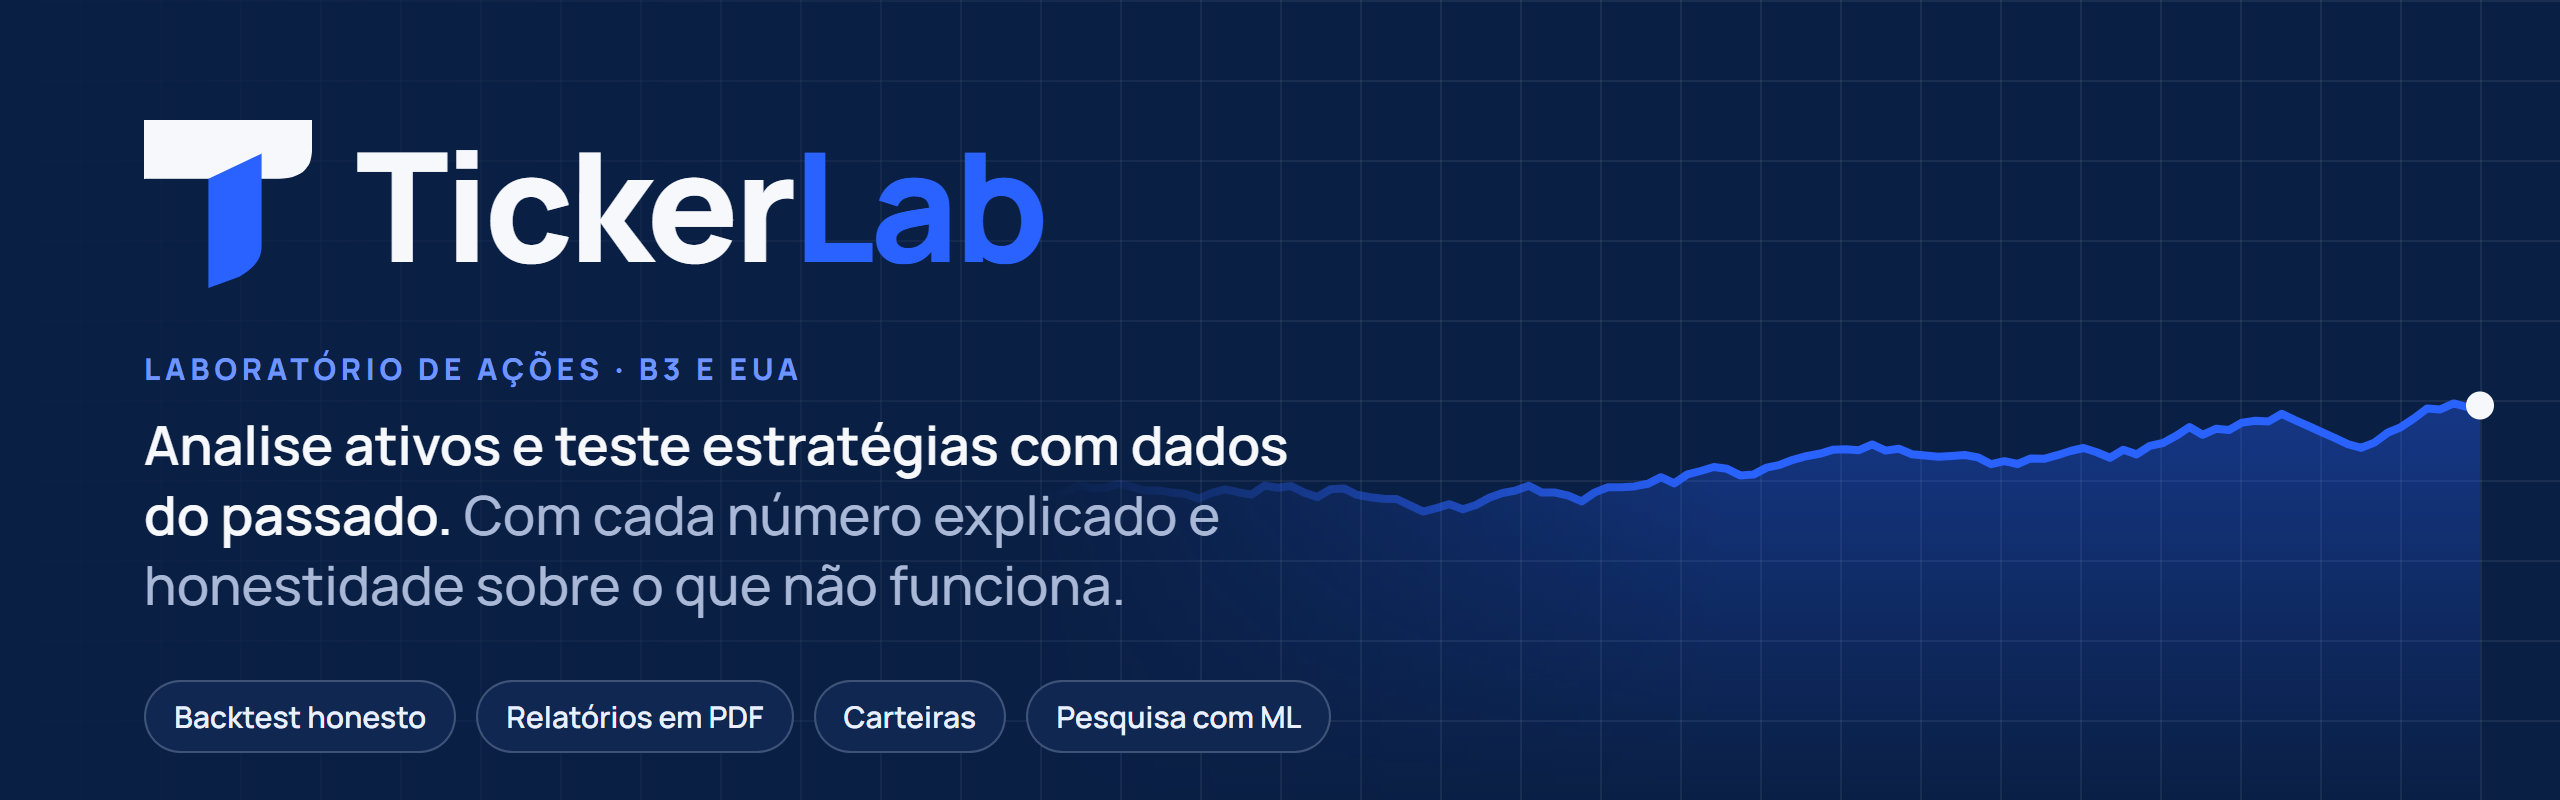
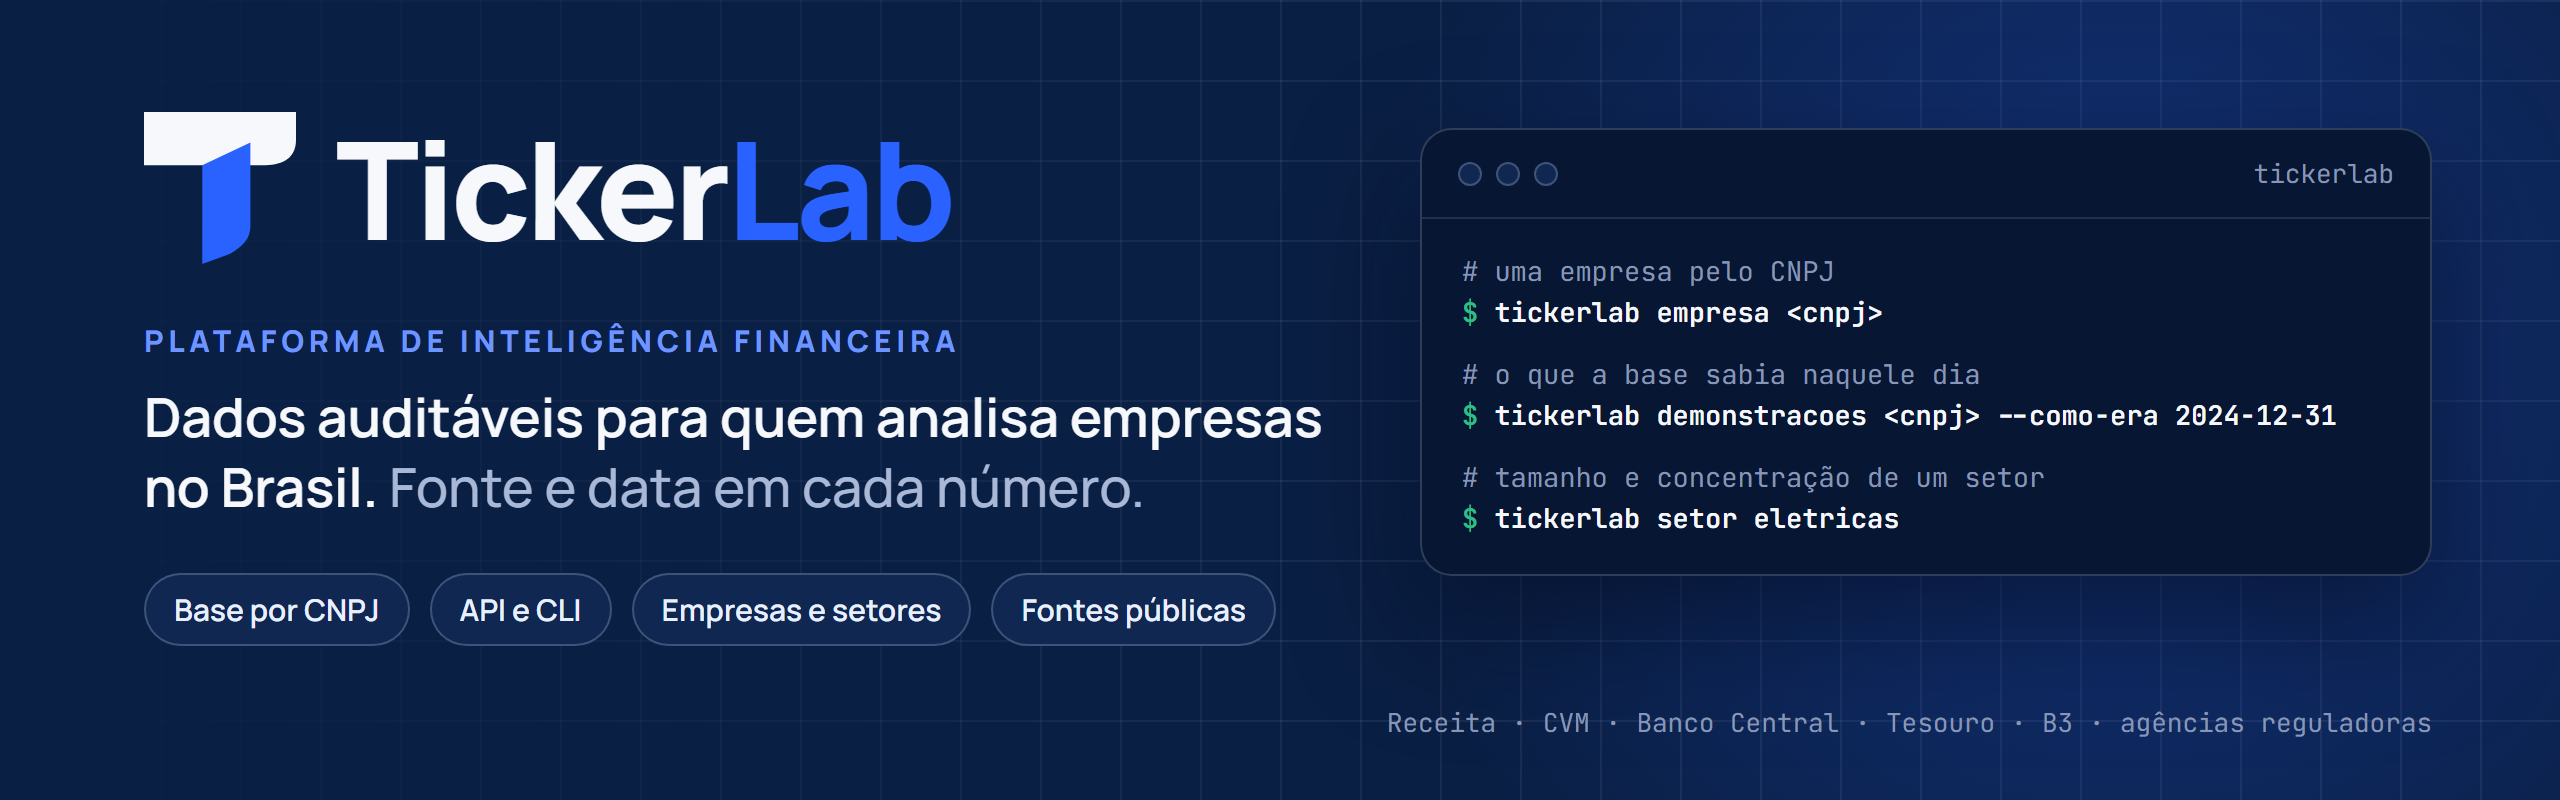
docs: imagens do GitHub com a cara do TickerLab de hoje (cabeçalho do README e prévia social)

diff --git a/docs/banner.html b/docs/banner.html
@@ -1,52 +1,76 @@
 <!doctype html>
-<!-- Banner do README (docs/imagens/banner.png). Para gerar de novo, no Windows:
-  msedge --headless=new --allow-file-access-from-files --hide-scrollbars --force-device-scale-factor=2
-         --window-size=1280,400 --screenshot=docs/imagens/banner.png docs/banner.html
-  O gráfico é decorativo (caminho aleatório com semente fixa), não são dados de mercado. -->
+<!-- As imagens do GitHub saem deste arquivo: o cabeçalho do README (docs/imagens/banner.png, 1280x400) e
+  a prévia social do repositório (docs/imagens/previa-social.png, 1280x640; abra com ?formato=previa).
+  Para gerar de novo: python -m scripts.gerar_imagens_do_github
+  Cores e fontes são as de src/marca.py. O terminal só lista comandos que a CLI tem (há teste), sem
+  saída e sem número: nada aqui fica velho quando a base cresce. -->
 <html lang="pt-BR"><head><meta charset="utf-8">
 <style>
 @font-face { font-family: M; src: url("../static/fontes/Manrope-VariableFont_wght.ttf"); font-weight: 200 800; }
-@font-face { font-family: J; src: url("../static/fontes/JetBrainsMono-SemiBold.ttf"); }
+@font-face { font-family: J; src: url("../static/fontes/JetBrainsMono-VariableFont_wght.ttf"); font-weight: 100 800; }
 html, body { margin: 0; width: 1280px; height: 400px; overflow: hidden; background: #0a1f44; }
 .c { position: relative; width: 1280px; height: 400px; font-family: M, sans-serif; color: #f6f8fb; background: #0a1f44; }
 .grade { position: absolute; inset: 0; background-image: linear-gradient(rgba(232,240,255,.07) 1px, transparent 1px), linear-gradient(90deg, rgba(232,240,255,.07) 1px, transparent 1px); background-size: 40px 40px; mask-image: linear-gradient(90deg, transparent 0%, #000 55%); }
-svg.graf { position: absolute; right: 0; top: 0; }
-.txt { position: absolute; left: 72px; top: 60px; }
-.marca { display: flex; align-items: center; gap: 22px; }
-.nome { font-weight: 800; font-size: 76px; letter-spacing: -0.03em; line-height: 1; }
+.brilho { position: absolute; right: -160px; top: -200px; width: 760px; height: 760px; border-radius: 50%; background: radial-gradient(closest-side, rgba(41,98,255,.30), rgba(41,98,255,0)); }
+.txt { position: absolute; left: 72px; top: 56px; width: 620px; }
+.marca { display: flex; align-items: center; gap: 20px; }
+.nome { font-weight: 800; font-size: 68px; letter-spacing: -0.03em; line-height: 1; }
 .nome b { color: #2962ff; font-weight: 800; }
-.olho { margin-top: 30px; color: #6e95ff; font-weight: 800; font-size: 15px; letter-spacing: .16em; text-transform: uppercase; }
-.frase { margin-top: 10px; font-size: 27px; font-weight: 600; line-height: 1.3; max-width: 600px; }
+.olho { margin-top: 28px; color: #6e95ff; font-weight: 800; font-size: 15px; letter-spacing: .16em; text-transform: uppercase; }
+.frase { margin-top: 10px; font-size: 27px; font-weight: 600; line-height: 1.3; }
 .frase span { color: #a9b8d6; font-weight: 500; }
-.pilulas { margin-top: 30px; display: flex; gap: 10px; }
-.p { border: 1px solid rgba(232,240,255,.22); background: #102752; border-radius: 999px; padding: 7px 14px; font-size: 15px; font-weight: 600; color: #e8f0ff; }
-.tk { position: absolute; right: 64px; bottom: 34px; font-family: J, monospace; font-size: 14px; color: #a9b8d6; display: flex; gap: 22px; }
-.tk .a { color: #2ebd85; } .tk .q { color: #f76169; }
+.pilulas { margin-top: 26px; display: flex; gap: 10px; }
+.p { border: 1px solid rgba(232,240,255,.22); background: #102752; border-radius: 999px; padding: 7px 14px; font-size: 15px; font-weight: 600; color: #e8f0ff; white-space: nowrap; }
+.terminal { position: absolute; right: 64px; top: 64px; width: 504px; border: 1px solid rgba(232,240,255,.18); border-radius: 16px; background: #071733; box-shadow: 0 24px 60px rgba(3,10,26,.55); font-family: J, monospace; }
+.barra { display: flex; align-items: center; gap: 7px; padding: 13px 18px; border-bottom: 1px solid rgba(232,240,255,.12); color: #8796b5; font-size: 13px; }
+.barra i { width: 10px; height: 10px; border-radius: 50%; background: #102752; border: 1px solid rgba(232,240,255,.22); }
+.barra span { margin-left: auto; }
+.linhas { padding: 16px 20px 18px; font-size: 13.5px; line-height: 1.5; }
+.linhas .c1 { color: #8796b5; margin-top: 11px; }
+.linhas .c1:first-child { margin-top: 0; }
+.linhas .cmd { color: #f6f8fb; font-weight: 600; white-space: nowrap; }
+.linhas .cmd::before { content: "$ "; color: #2ebd85; }
+.fontes { position: absolute; right: 64px; bottom: 30px; font-family: J, monospace; font-size: 13px; color: #8796b5; }
+/* prévia social do repositório: 1280x640, mesma peça com mais ar */
+.previa, .previa body, .previa .c { height: 640px; }
+.previa .txt { top: 96px; width: 580px; }
+.previa .nome { font-size: 84px; }
+.previa .olho { margin-top: 40px; font-size: 17px; }
+.previa .frase { font-size: 30px; margin-top: 12px; }
+.previa .pilulas { margin-top: 36px; }
+.previa .p { font-size: 15px; padding: 8px 14px; }
+.previa .terminal { top: 150px; width: 528px; }
+.previa .linhas { font-size: 14px; padding: 20px 22px 24px; }
+.previa .linhas .c1 { margin-top: 16px; }
+.previa .fontes { bottom: 56px; font-size: 14px; }
 </style></head>
 <body><div class="c">
 <div class="grade"></div>
-<svg class="graf" width="760" height="400" viewBox="0 0 760 400" id="g"></svg>
+<div class="brilho"></div>
 <div class="txt">
   <div class="marca">
-    <svg width="84" height="84" viewBox="9 14 60 60"><path d="M9 14 H69 V25 C69 32 64 35 57 35 H9 Z" fill="#f6f8fb"/><path d="M32 35 L51 26 V59 C51 64 48 67 43 70 L32 74 Z" fill="#2962ff"/></svg>
+    <svg width="76" height="76" viewBox="9 14 60 60"><path d="M9 14 H69 V25 C69 32 64 35 57 35 H9 Z" fill="#f6f8fb"/><path d="M32 35 L51 26 V59 C51 64 48 67 43 70 L32 74 Z" fill="#2962ff"/></svg>
     <div class="nome">Ticker<b>Lab</b></div>
   </div>
-  <div class="olho">Laboratório de ações · B3 e EUA</div>
-  <div class="frase">Analise ativos e teste estratégias com dados do passado. <span>Com cada número explicado e honestidade sobre o que não funciona.</span></div>
-  <div class="pilulas"><span class="p">Backtest honesto</span><span class="p">Relatórios em PDF</span><span class="p">Carteiras</span><span class="p">Pesquisa com ML</span></div>
+  <div class="olho">Plataforma de inteligência financeira</div>
+  <div class="frase">Dados auditáveis para quem analisa empresas no Brasil. <span>Fonte e data em cada número.</span></div>
+  <div class="pilulas"><span class="p">Base por CNPJ</span><span class="p">API e CLI</span><span class="p">Empresas e setores</span><span class="p">Fontes públicas</span></div>
 </div>
+<div class="terminal">
+  <div class="barra"><i></i><i></i><i></i><span>tickerlab</span></div>
+  <div class="linhas">
+    <div class="c1"># uma empresa pelo CNPJ</div>
+    <div class="cmd">tickerlab empresa &lt;cnpj&gt;</div>
+    <div class="c1"># o que a base sabia naquele dia</div>
+    <div class="cmd">tickerlab demonstracoes &lt;cnpj&gt; --como-era 2024-12-31</div>
+    <div class="c1"># tamanho e concentração de um setor</div>
+    <div class="cmd">tickerlab setor eletricas</div>
+  </div>
+</div>
+<div class="fontes">Receita · CVM · Banco Central · Tesouro · B3 · agências reguladoras</div>
 </div>
 <script>
-// caminho aleatório determinístico (só decoração)
-let s = 7; const r = () => (s = (s * 16807) % 2147483647) / 2147483647;
-const n = 110, w = 720, pts = []; let y = 250;
-for (let i = 0; i < n; i++) { y += (r() - 0.56) * 9; if (y < 70) y = 140 - y; if (y > 280) y = 560 - y; pts.push([i * w / (n - 1), y]); }
-const g = document.getElementById('g'), ns = 'http://www.w3.org/2000/svg';
-const d = pts.map((p, i) => (i ? 'L' : 'M') + p[0].toFixed(1) + ' ' + p[1].toFixed(1)).join(' ');
-g.innerHTML = `<defs><linearGradient id="a" x1="0" y1="0" x2="0" y2="1"><stop offset="0" stop-color="#2962ff" stop-opacity=".35"/><stop offset="1" stop-color="#2962ff" stop-opacity="0"/></linearGradient>
-<linearGradient id="f" x1="0" y1="0" x2="1" y2="0"><stop offset="0" stop-color="#fff" stop-opacity="0"/><stop offset=".45" stop-color="#fff" stop-opacity="1"/></linearGradient>
-<mask id="m"><rect width="760" height="400" fill="url(#f)"/></mask></defs>
-<g mask="url(#m)"><path d="${d} L${pts[n-1][0]} 400 L0 400 Z" fill="url(#a)"/><path d="${d}" fill="none" stroke="#2962ff" stroke-width="4" stroke-linejoin="round"/>
-<circle cx="${pts[n-1][0]}" cy="${pts[n-1][1]}" r="7" fill="#f6f8fb"/></g>`;
+// a prévia social é a mesma peça, mais alta
+if (new URLSearchParams(location.search).get("formato") === "previa") document.documentElement.classList.add("previa");
 </script>
 </body></html>

diff --git a/scripts/gerar_imagens_do_github.py b/scripts/gerar_imagens_do_github.py
@@ -1,0 +1,109 @@
+"""Gera as imagens de marca que aparecem no GitHub, a partir de `docs/banner.html`.
+
+- `docs/imagens/banner.png`: o cabeçalho do README do repositório e do README de perfil (1280x400).
+- `docs/imagens/previa-social.png`: a prévia social do repositório (1280x640), que se envia à mão em
+  Settings > Social preview (o GitHub não tem rota de API para isso).
+
+A página é desenhada pelo Edge ou pelo Chrome sem janela, com as fontes de `static/fontes/`. Os gráficos
+do README saem de outro script (`scripts/gerar_imagens_do_readme.py`).
+
+Roda: manual (python -m scripts.gerar_imagens_do_github; precisa do Edge ou do Chrome instalado), quando
+a frase, a marca ou os comandos mostrados em docs/banner.html mudam.
+"""
+
+import shutil
+import subprocess
+import tempfile
+import time
+from pathlib import Path
+
+RAIZ = Path(__file__).resolve().parent.parent
+PAGINA = RAIZ / "docs" / "banner.html"
+PASTA = RAIZ / "docs" / "imagens"
+LARGURA = 1280
+# nome do arquivo, altura em pixels, parâmetro da página e escala (o cabeçalho sai com o dobro de pontos)
+IMAGENS: tuple[tuple[str, int, str, int], ...] = (
+    ("banner.png", 400, "", 2),
+    ("previa-social.png", 640, "?formato=previa", 1),
+)
+NAVEGADORES = ("msedge", "chrome", "chromium", "google-chrome")
+PASTAS_DO_WINDOWS = (
+    Path("C:/Program Files (x86)/Microsoft/Edge/Application/msedge.exe"),
+    Path("C:/Program Files/Microsoft/Edge/Application/msedge.exe"),
+    Path("C:/Program Files/Google/Chrome/Application/chrome.exe"),
+)
+ESPERA_MAXIMA_EM_SEGUNDOS = 120
+# o navegador às vezes devolve o controle antes de gravar, ou não grava na primeira vez de um perfil novo
+TENTATIVAS = 3
+ESPERA_PELO_ARQUIVO_EM_SEGUNDOS = 10
+
+
+def achar_navegador() -> str:
+    """O caminho do Edge ou do Chrome; sem nenhum dos dois, não há como desenhar a página."""
+    for nome in NAVEGADORES:
+        caminho = shutil.which(nome)
+        if caminho:
+            return caminho
+    for caminho in PASTAS_DO_WINDOWS:
+        if caminho.is_file():
+            return str(caminho)
+    raise SystemExit("Instale o Edge ou o Chrome para gerar as imagens do GitHub.")
+
+
+def comando(
+    navegador: str, perfil: str, destino: Path, altura: int, parametro: str, escala: int
+) -> list[str]:
+    """A linha de comando que fotografa a página no tamanho pedido."""
+    return [
+        navegador,
+        "--headless=new",
+        "--disable-gpu",
+        # perfil só desta rodada: com o navegador da pessoa aberto, a captura pode sair vazia sem avisar
+        f"--user-data-dir={perfil}",
+        "--allow-file-access-from-files",
+        "--hide-scrollbars",
+        f"--force-device-scale-factor={escala}",
+        f"--window-size={LARGURA},{altura}",
+        f"--screenshot={destino}",
+        PAGINA.as_uri() + parametro,
+    ]
+
+
+def _apareceu(destino: Path) -> bool:
+    """Espera um pouco pelo arquivo: o navegador pode gravá-lo logo depois de devolver o controle."""
+    limite = time.monotonic() + ESPERA_PELO_ARQUIVO_EM_SEGUNDOS
+    while time.monotonic() < limite:
+        if destino.is_file() and destino.stat().st_size > 0:
+            return True
+        time.sleep(0.5)
+    return False
+
+
+def fotografar(navegador: str, perfil: str, imagem: tuple[str, int, str, int]) -> Path:
+    """Grava uma imagem, tentando de novo quando o navegador sai sem gravar."""
+    nome, altura, parametro, escala = imagem
+    destino = PASTA / nome
+    destino.unlink(missing_ok=True)
+    for _ in range(TENTATIVAS):
+        subprocess.run(
+            comando(navegador, perfil, destino, altura, parametro, escala),
+            check=True,
+            timeout=ESPERA_MAXIMA_EM_SEGUNDOS,
+            capture_output=True,
+        )
+        if _apareceu(destino):
+            return destino
+    raise SystemExit(f"O navegador não gravou {nome}.")
+
+
+def main() -> None:
+    navegador = achar_navegador()
+    PASTA.mkdir(parents=True, exist_ok=True)
+    with tempfile.TemporaryDirectory(ignore_cleanup_errors=True) as perfil:
+        for imagem in IMAGENS:
+            destino = fotografar(navegador, perfil, imagem)
+            print("gerada:", destino.relative_to(RAIZ))
+
+
+if __name__ == "__main__":
+    main()

diff --git a/tests/test_imagens_do_github.py b/tests/test_imagens_do_github.py
@@ -1,0 +1,59 @@
+"""A peça de marca do GitHub (docs/banner.html) só mostra o que o TickerLab é hoje e o que a CLI tem."""
+
+import html
+import re
+from pathlib import Path
+
+from scripts.gerar_imagens_do_github import IMAGENS, PAGINA, PASTA
+
+RAIZ = Path(__file__).resolve().parent.parent
+COMANDOS_DA_CLI = (RAIZ / "cli" / "tickerlab" / "comandos.py").read_text(
+    encoding="utf-8"
+)
+# a ideia antiga (laboratório de ações) e o que a marca não promete
+FRASES_QUE_NAO_VOLTAM = (
+    "Laboratório de ações",
+    "Backtest",
+    "Pesquisa com ML",
+    "R$",
+    "rentabilidade",
+)
+
+
+def _linhas_do_terminal() -> list[str]:
+    pagina = PAGINA.read_text(encoding="utf-8")
+    return [
+        html.unescape(linha)
+        for linha in re.findall(r'<div class="cmd">(.*?)</div>', pagina)
+    ]
+
+
+def test_o_terminal_so_mostra_comando_e_opcao_que_a_cli_tem():
+    linhas = _linhas_do_terminal()
+    assert linhas, "o terminal da peça ficou sem comandos"
+    for linha in linhas:
+        programa, comando, *_ = linha.split()
+        assert programa == "tickerlab"
+        assert re.search(rf"^def {comando}\($", COMANDOS_DA_CLI, flags=re.MULTILINE), (
+            linha
+        )
+        for opcao in re.findall(r"--[a-z-]+", linha):
+            assert f'"{opcao}"' in COMANDOS_DA_CLI, linha
+
+
+def test_o_terminal_nao_mostra_cnpj_de_verdade():
+    for linha in _linhas_do_terminal():
+        assert not re.search(r"\d{2}\.?\d{3}\.?\d{3}/?\d{4}-?\d{2}", linha), linha
+
+
+def test_a_peca_nao_traz_a_ideia_antiga_nem_promessa():
+    pagina = PAGINA.read_text(encoding="utf-8")
+    for frase in FRASES_QUE_NAO_VOLTAM:
+        assert frase not in pagina, frase
+
+
+def test_as_imagens_geradas_estao_no_repositorio():
+    for nome, *_ in IMAGENS:
+        assert (PASTA / nome).is_file(), (
+            f"rode python -m scripts.gerar_imagens_do_github ({nome})"
+        )
